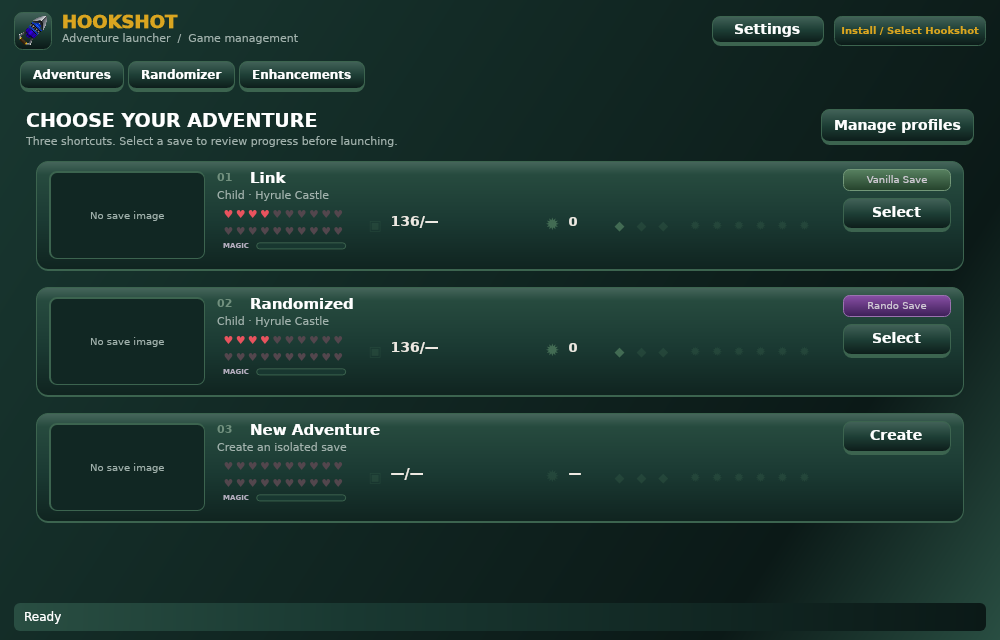
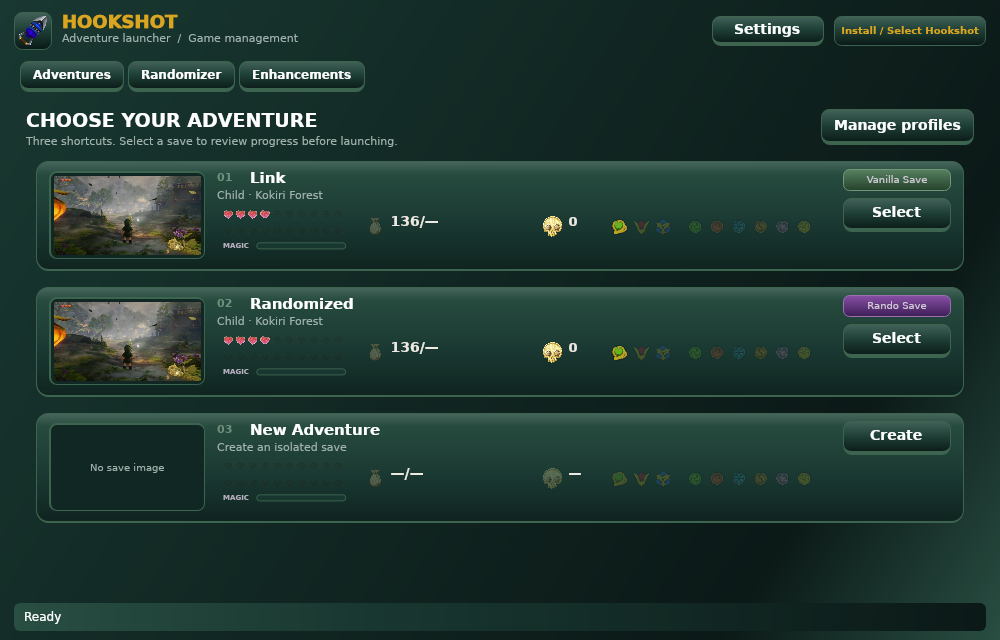
Restore theme showcase and capture current launcher screens

diff --git a/README.md b/README.md
@@ -16,7 +16,9 @@ Create separate vanilla or randomized adventures and keep their saves in individ
 
 ![Adventure selection showing vanilla and randomized profiles](docs/screenshots/0.9.01-adventures.png)
 
-The screenshots below use **synthetic saves and placeholder icons**. With a supported local game selected, the launcher can build its private icon cache from that installation and show its save images. No extracted icons or game files are included here.
+These screenshots use example profiles and a captured game scene to illustrate the launcher. Inventory icons are displayed using the local game's artwork; the generated icon cache, game files, and personal saves are not included in this repository.
+
+![Adventure details showing inventory and quest progress](docs/screenshots/0.9.01-details.png)
 
 ## Save editor
 
@@ -63,6 +65,25 @@ Choose **Settings → Visual theme** to personalize the launcher. Your choice is
 | Tri-force | Antique gold and bronze |
 | Zelda | Blue-violet and soft accents |
 | Ruby | Garnet and vivid ruby-red |
+
+The current launcher in each theme:
+
+| Darunia | Gannon |
+| --- | --- |
+| ![Darunia theme](docs/screenshots/theme-goron.png) | ![Gannon theme](docs/screenshots/theme-gannon.png) |
+| **Link** | **Royal** |
+| ![Link theme](docs/screenshots/theme-zelda.png) | ![Royal theme](docs/screenshots/theme-purple.png) |
+| **Ruto** | **Tri-force** |
+| ![Ruto theme](docs/screenshots/theme-blue_crystal.png) | ![Tri-force theme](docs/screenshots/theme-zelda_gold.png) |
+| **Zelda** | **Ruby** |
+| ![Zelda theme](docs/screenshots/theme-zelda_pearl.png) | ![Ruby theme](docs/screenshots/theme-ruby.png) |
+
+<details>
+<summary>Earlier v0.8 theme showcase</summary>
+
+![The eight themes in the earlier v0.8 launcher](docs/screenshots/themes-showcase.png)
+
+</details>
 
 The launcher also provides settings for game launches, shader and pipeline tools, and development build and shader worker counts. Its compact layouts are designed for desktop and Steam Deck-sized screens; the alpha still needs wider hardware testing.
 
